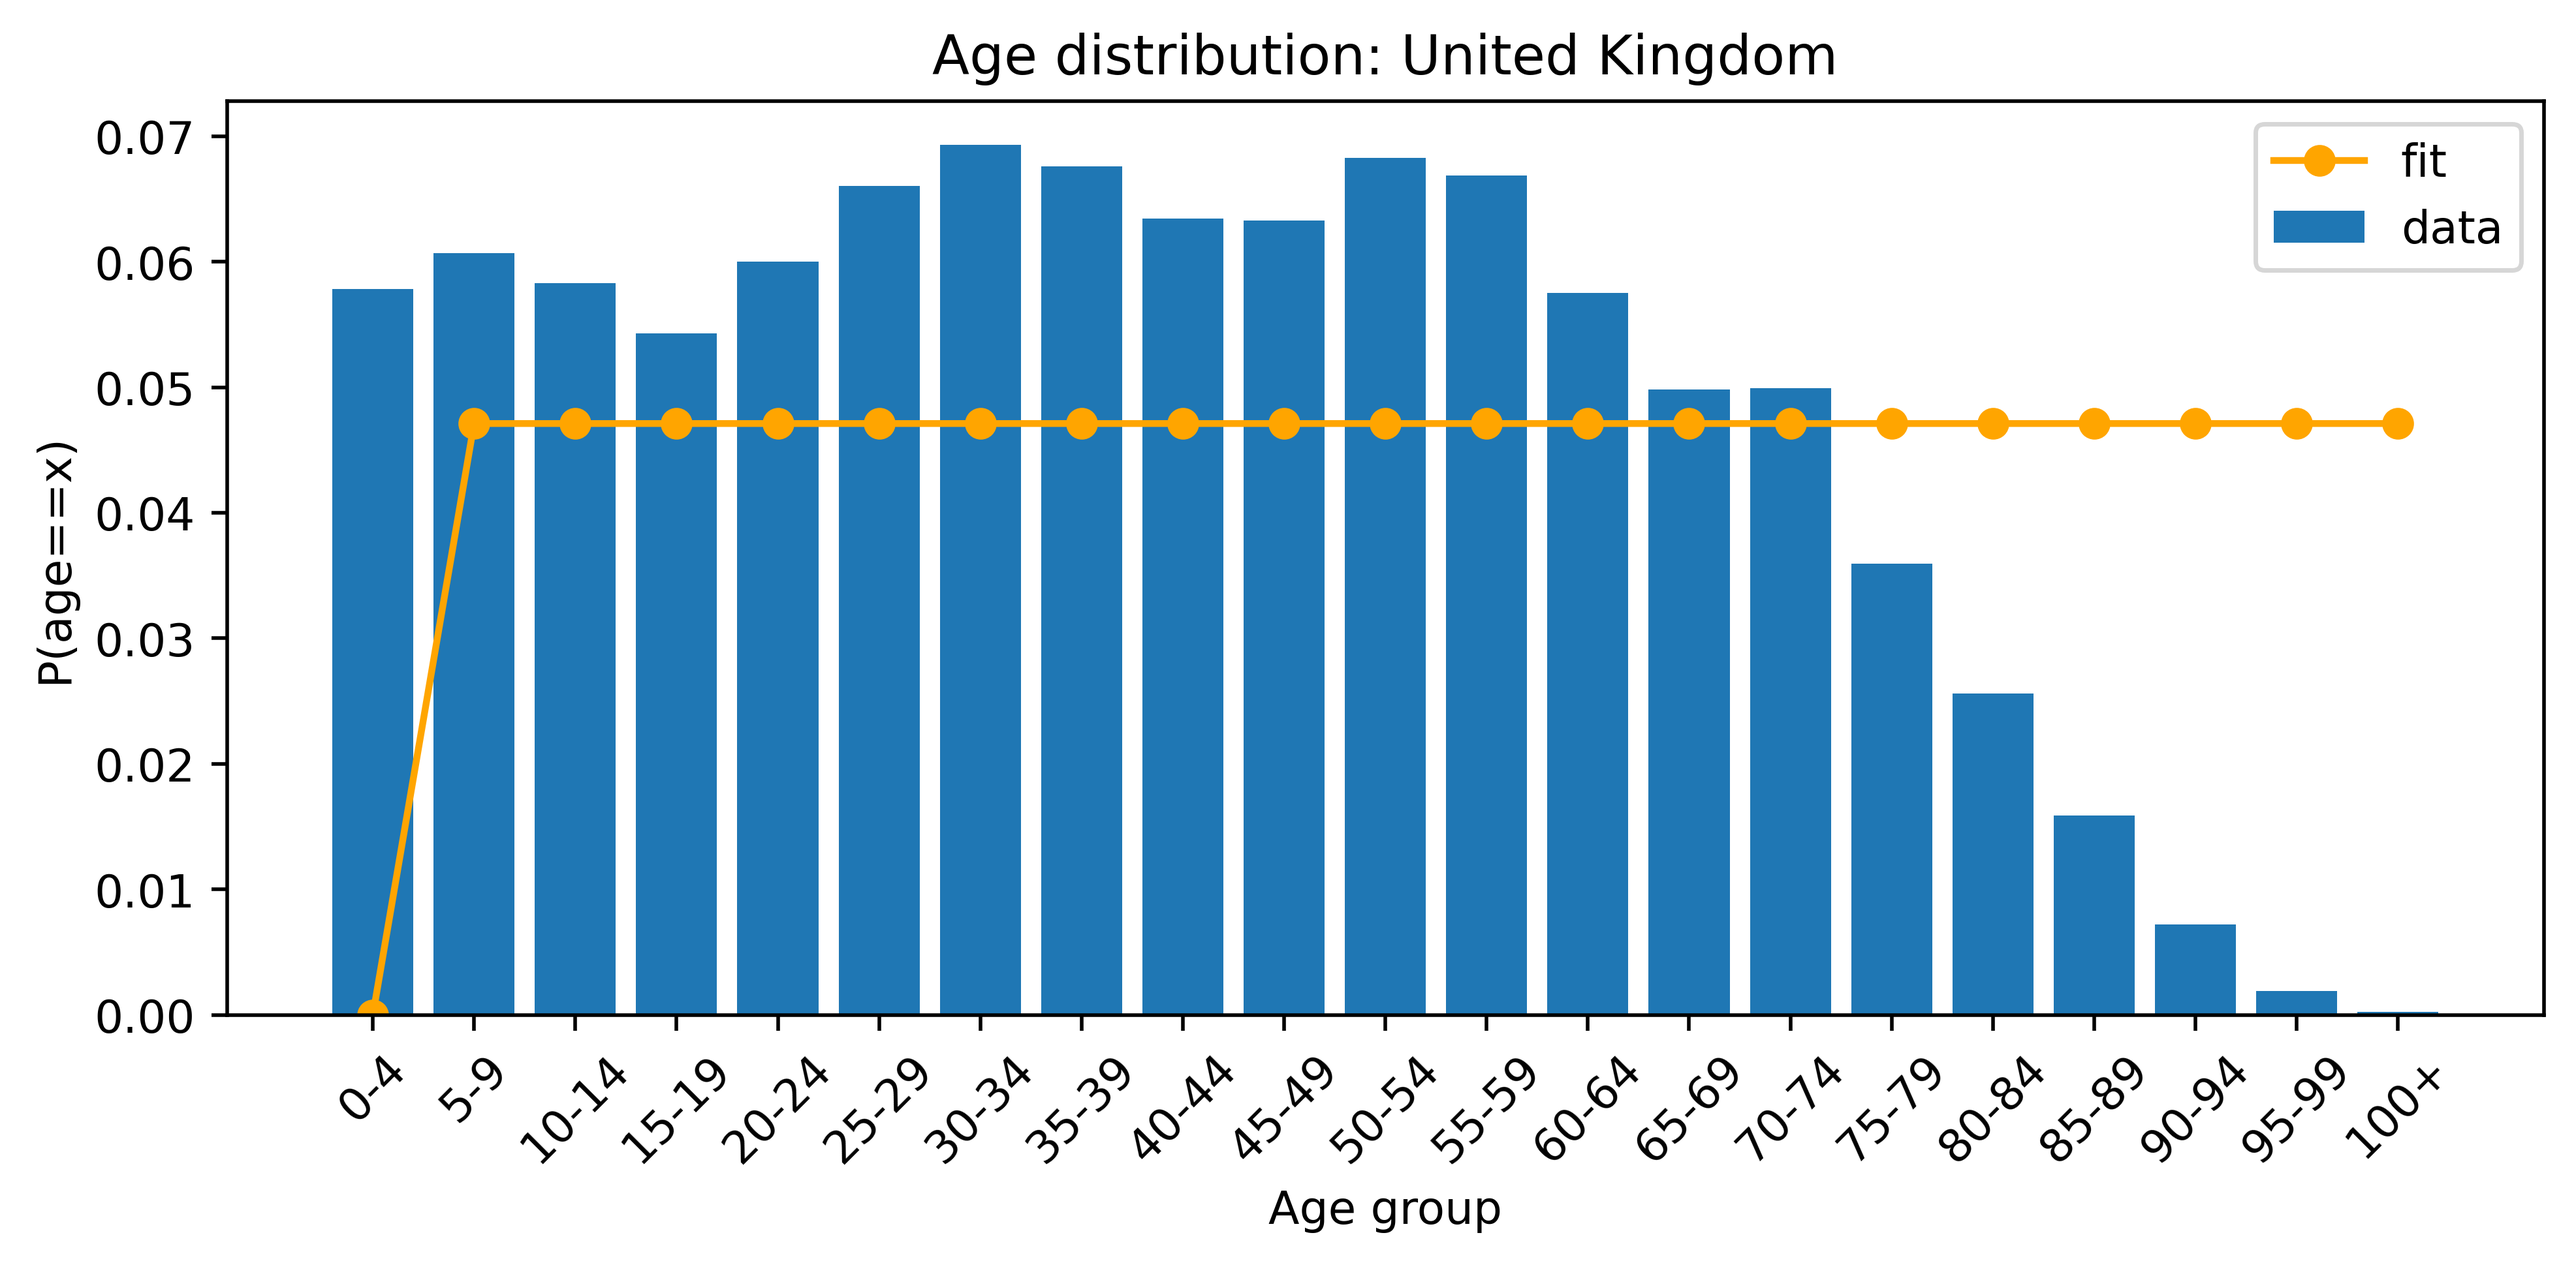
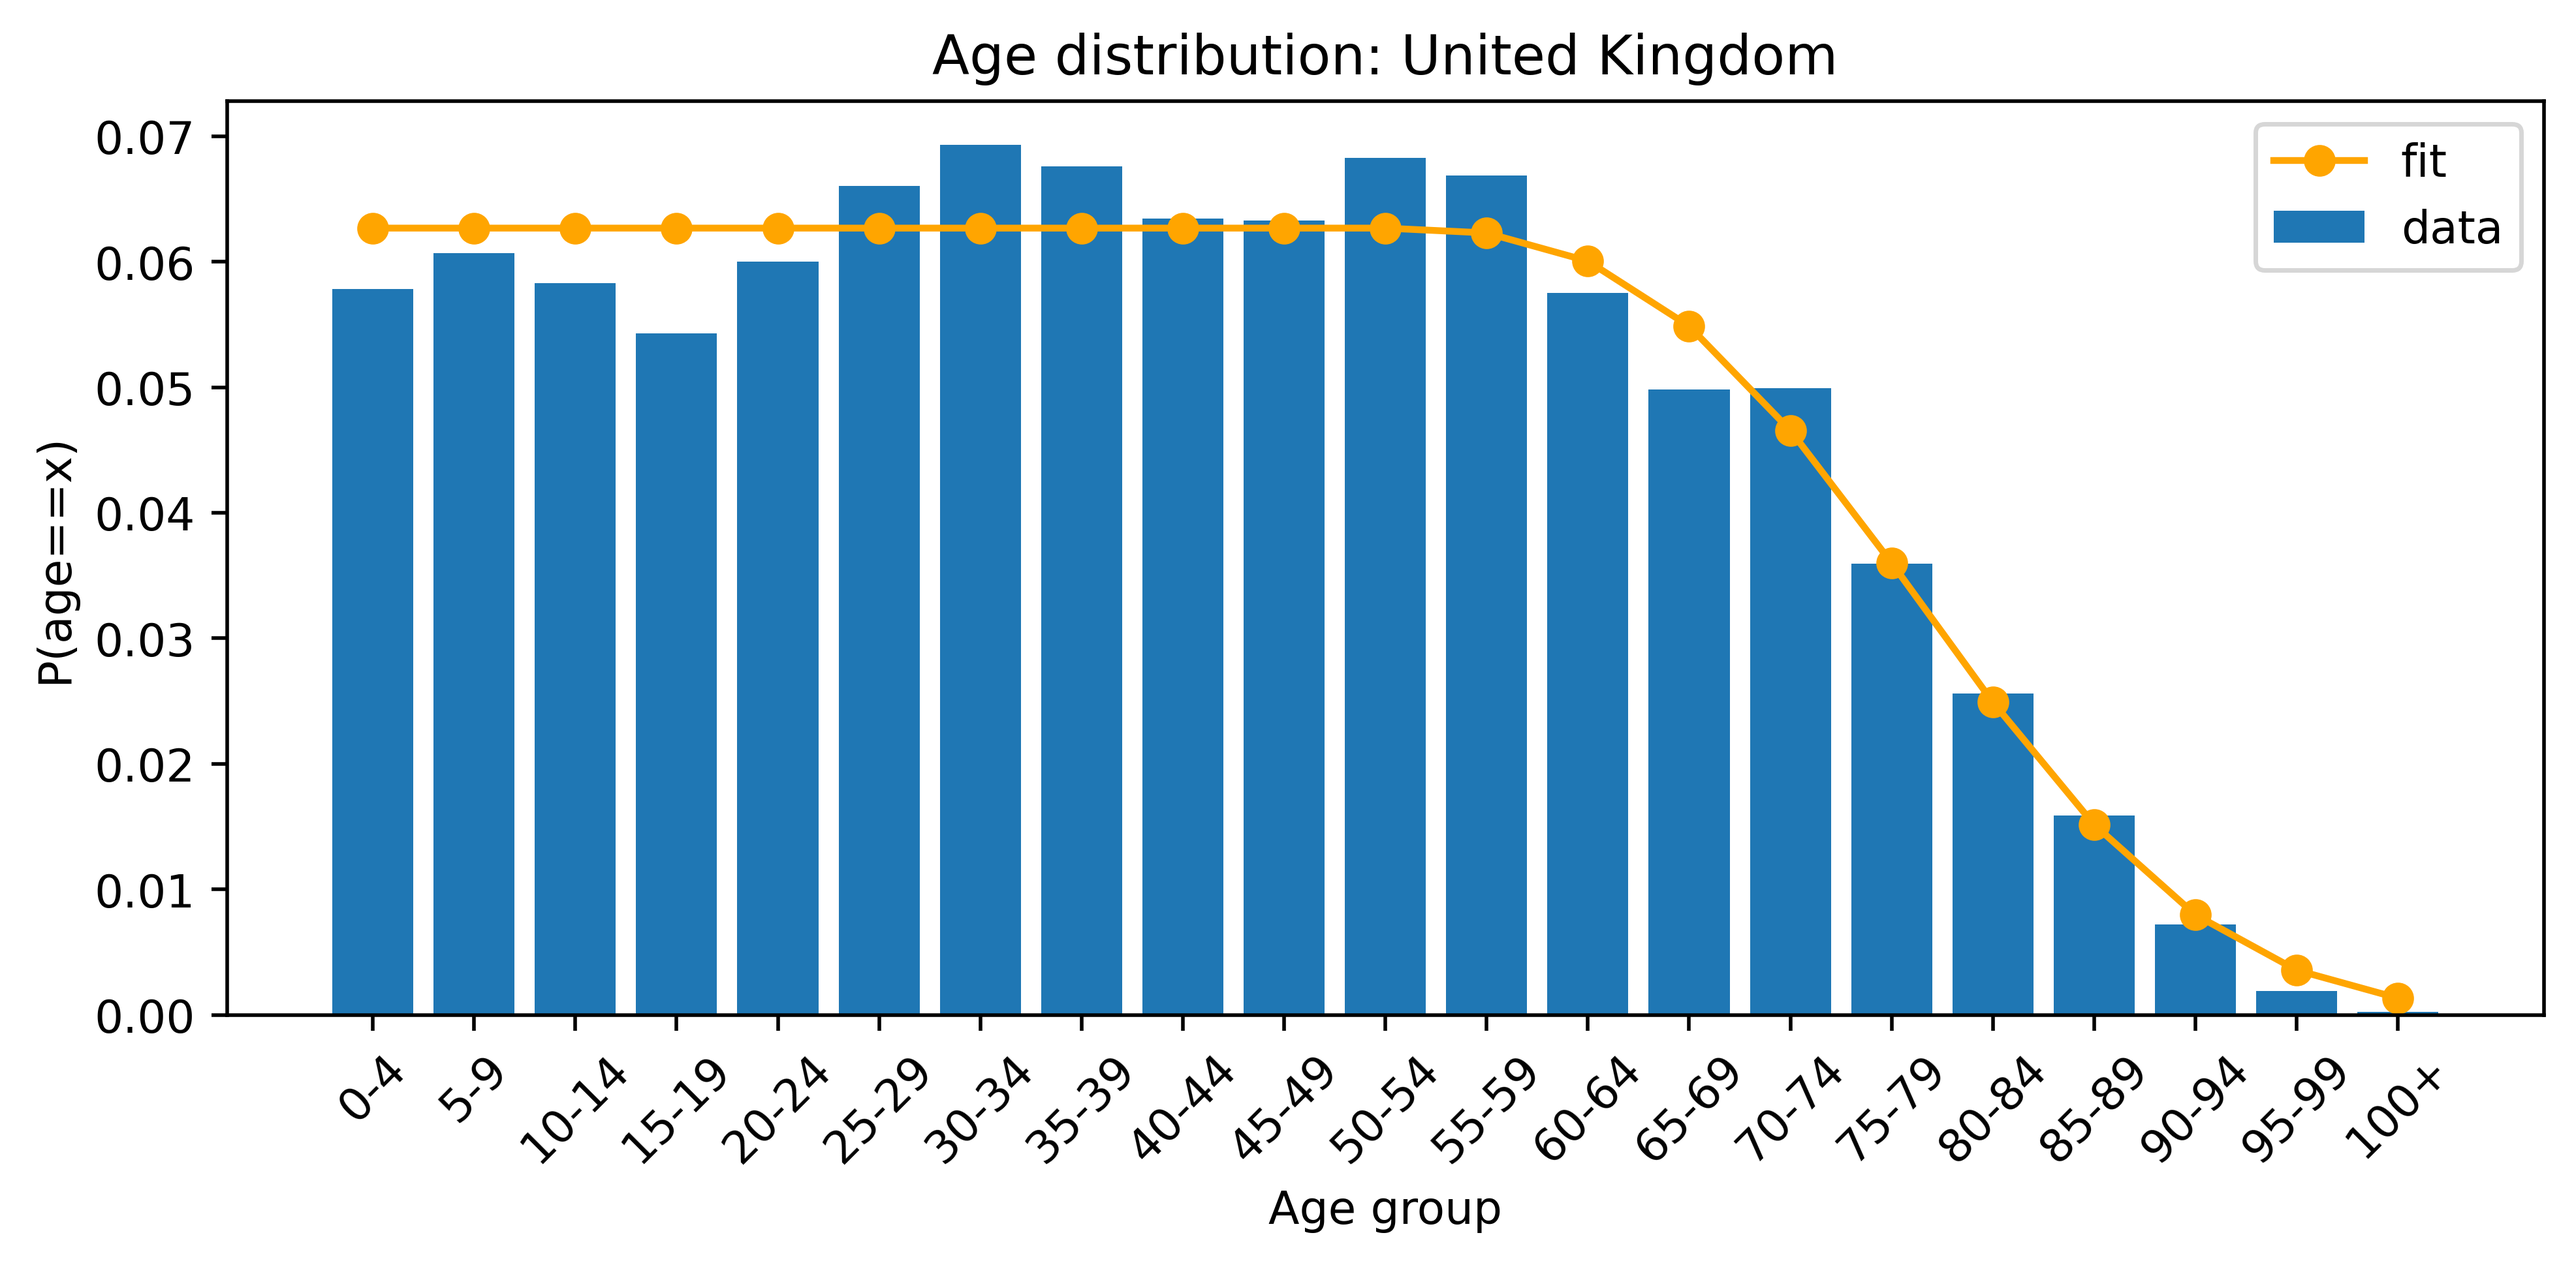
Updates to genetic algorithm and plotting

diff --git a/code/Fcnform_Plotter.py b/code/Fcnform_Plotter.py
@@ -1,0 +1,88 @@
+#!/usr/bin/env python3
+# -*- coding: utf-8 -*-
+"""
+Created on Tue May 10 10:48:54 2022
+
+@author: kfair
+"""
+
+#Load in required libraries
+import numpy as np
+import os
+import matplotlib.pyplot as plt
+import seaborn as sns
+
+
+# Set working directory
+home =  os.getcwd()[:-4]
+
+
+# Define the expoential decay equation we're using for fitting
+def decayfcn(x, A, b, k):
+    y = A*np.exp(-b*(x**k))
+    return y
+
+# Define the data we want to plot
+xdat = np.arange(0, 5, 0.1)
+
+plt.figure(1, figsize=(10,5))
+
+plt.subplot(121)
+plt.plot(xdat, decayfcn(xdat,1,1,1), '-', label='A=1,    B=1,    C=1')
+# plt.plot(xdat, decayfcn(xdat,0.5,0.5,1), '-', label='A=0.5, B=1,    C=1')
+# plt.plot(xdat, decayfcn(xdat,1,0.5,1), '-', label='A=1,    B=0.5, C=1')
+# plt.plot(xdat, decayfcn(xdat,1,0.5,2), '-', label='A=1,    B=0.5, C=2')
+plt.xlabel("x")
+plt.ylabel("y")
+plt.legend(title="Parameters")
+
+plt.tight_layout()
+plt.savefig('agedistfitter_demo1.png', bbox_inches="tight", dpi=500)
+plt.show()
+
+plt.figure(1, figsize=(10,5))
+
+plt.subplot(121)
+plt.plot(xdat, decayfcn(xdat,1,1,1), '-', label='A=1,    B=1,    C=1')
+plt.plot(xdat, decayfcn(xdat,0.5,0.5,1), '-', label='A=0.5, B=1,    C=1')
+# plt.plot(xdat, decayfcn(xdat,1,0.5,1), '-', label='A=1,    B=0.5, C=1')
+# plt.plot(xdat, decayfcn(xdat,1,0.5,2), '-', label='A=1,    B=0.5, C=2')
+plt.xlabel("x")
+plt.ylabel("y")
+plt.legend(title="Parameters")
+
+plt.tight_layout()
+plt.savefig('agedistfitter_demo2.png', bbox_inches="tight", dpi=500)
+plt.show()
+
+
+plt.figure(1, figsize=(10,5))
+
+plt.subplot(121)
+plt.plot(xdat, decayfcn(xdat,1,1,1), '-', label='A=1,    B=1,    C=1')
+plt.plot(xdat, decayfcn(xdat,0.5,0.5,1), '-', label='A=0.5, B=1,    C=1')
+plt.plot(xdat, decayfcn(xdat,1,0.5,1), '-', label='A=1,    B=0.5, C=1')
+# plt.plot(xdat, decayfcn(xdat,1,0.5,2), '-', label='A=1,    B=0.5, C=2')
+plt.xlabel("x")
+plt.ylabel("y")
+plt.legend(title="Parameters")
+
+plt.tight_layout()
+plt.savefig('agedistfitter_demo3.png', bbox_inches="tight", dpi=500)
+plt.show()
+
+
+plt.figure(1, figsize=(10,5))
+
+plt.subplot(121)
+plt.plot(xdat, decayfcn(xdat,1,1,1), '-', label='A=1,    B=1,    C=1')
+plt.plot(xdat, decayfcn(xdat,0.5,0.5,1), '-', label='A=0.5, B=1,    C=1')
+plt.plot(xdat, decayfcn(xdat,1,0.5,1), '-', label='A=1,    B=0.5, C=1')
+plt.plot(xdat, decayfcn(xdat,1,0.5,2), '-', label='A=1,    B=0.5, C=2')
+plt.xlabel("x")
+plt.ylabel("y")
+plt.legend(title="Parameters")
+
+plt.tight_layout()
+plt.savefig('agedistfitter_demo4.png', bbox_inches="tight", dpi=500)
+plt.show()

diff --git a/code/test_KRF_noncum_mean_mod.py b/code/test_KRF_noncum_mean_mod.py
@@ -52,8 +52,9 @@ def obj_func(survive_probas):
     # ages_final[uages] = freqs
     ages_final = ages_history[:,-100::].mean(axis=1)
     ages_dist = np.cumsum(ages_final/ages_final.sum())
+    ages_dist_noncum = ages_final/ages_final.sum()
     
-    return (np.max(np.abs(ages_dist - target_dist_cum)), ages_dist)
+    return (np.mean(np.abs(ages_dist_noncum - target_dist_noncum)), ages_dist)
 
 # def obj_func(survive_probas):
     
@@ -129,9 +130,10 @@ max_itera = 1000
 # stepsize=5
 # target_dist = np.arange(1,stepsize*(n_groups),stepsize)[::-1]
 
-numselect=1
+numselect=37
 target_dist = df.iloc[numselect, -22:-1] #For now just do the check on the very first entry
 n_groups = len(target_dist) # Set number of groups to match age classes in data
+target_dist_noncum = target_dist/target_dist.sum()
 target_dist_cum = np.cumsum(target_dist/target_dist.sum())
 
 
@@ -154,7 +156,7 @@ print(f"Minimum possible p_n value: {p_n_min_getter(target_dist)}")
 ## TEST OPTIMIZATION
 
 best_fitness = 1000
-popsize = 64
+popsize = 128
 mut=0.8
 crossp=0.7
 parallel_processes = 64
@@ -197,7 +199,7 @@ while True:
         
         plt.subplot(132)
         plt.plot(numerical_dist_noncum, label = "simulated")
-        plt.plot(target_dist/target_dist.sum(), label = "observed")
+        plt.plot(target_dist_noncum, label = "observed")
         plt.plot()
         plt.legend(title="Age distribution")
         plt.xticks(rotation=45)

diff --git a/code/test2_KRF_noncum_mean_mod.py b/code/test2_KRF_noncum_mean_mod.py
@@ -43,9 +43,10 @@ def obj_func(solution):
 
     ages_final = ages_history[:,-100::].mean(axis=1)
     ages_dist = np.cumsum(ages_final/ages_final.sum())
+    ages_dist_noncum = ages_final/ages_final.sum()
     
     # return np.max(np.abs(ages_dist - target_dist))
-    return (np.max(np.abs(ages_dist - target_dist_cum)), ages_dist)
+    return (np.mean(np.abs(ages_dist_noncum - target_dist_noncum)), ages_dist)
 
 ## GET DATA
 
@@ -88,6 +89,7 @@ max_itera = 1000
 numselect=1
 target_dist = df.iloc[numselect, -22:-1] #For now just do the check on the very first entry
 n_groups = len(target_dist) # Set number of groups to match age classes in data
+target_dist_noncum = target_dist/target_dist.sum()
 target_dist_cum = np.cumsum(target_dist/target_dist.sum())
 
 
@@ -151,7 +153,7 @@ while True:
         plt.title(f"Parameter values: {df.iloc[numselect,3]}")
         
         plt.subplot(122)
-        plt.bar(x=target_dist.index, height=target_dist/target_dist.sum(), label = "observed")
+        plt.bar(x=target_dist.index, height=target_dist_noncum, label = "observed")
         plt.plot(numerical_dist_noncum,  'o-', color="orange", label = "simulated")
         plt.legend(title="Age distribution", loc = "upper right")
         plt.xticks(rotation=45)

diff --git a/code/AgeDist_fitter.py b/code/AgeDist_fitter.py
@@ -100,9 +100,13 @@ fit_y_noncum[1:] -= fit_y_noncum[:-1].copy()
 
 # print(wasserstein_distance(target_dist_cum, fit_y_old))
 
-# Define the expoential decay equation we're using for fitting
-def decayfcn(x, A, b, k):
-    y = A*np.exp(-b*(x**k))
+startbin=10
+
+# Define the decay equation we're using for fitting
+def decayfcn(x, A, B, k):
+    
+    y = A*np.ones(len(x))
+    y[startbin:] = A*np.exp(-B*((x[startbin:] - x[startbin])**k))
     return y
 
 # Fit curve
@@ -110,11 +114,11 @@ ydat = np.asarray(target_dist/target_dist.sum())
 parameters, covariance = curve_fit(decayfcn, xdat, ydat)
 
 fit_A = parameters[0]
-fit_b = parameters[1]
+fit_B = parameters[1]
 fit_k = parameters[2]
 
-fit_y = decayfcn(xdat, fit_A, fit_b, fit_k)
-fit_y[fit_y>1] = 1 
+fit_y = decayfcn(xdat, fit_A, fit_B, fit_k)
+# fit_y[fit_y>1] = 1 
 
 wass_dist = wasserstein_distance(target_dist/target_dist.sum(), fit_y)
 
@@ -150,10 +154,12 @@ plt.tight_layout()
 plt.savefig(f'agedist_fitted_empirical_{df.iloc[numselect,3]}.png', bbox_inches="tight", dpi=500)
 plt.show()
 
-
+if abs(fit_y.sum()-1) > 0.01:
+    print("Fitted probabilties aren't summing nicely")
 
 # df_wassdist[i] = wass_dist
     
 # plt.figure(2, figsize=(10,5))    
 # plt.hist(df_wassdist)
 # plt.show()
+

diff --git a/code/test_KRF_noncummod.py b/code/test_KRF_noncummod.py
@@ -52,8 +52,9 @@ def obj_func(survive_probas):
     # ages_final[uages] = freqs
     ages_final = ages_history[:,-100::].mean(axis=1)
     ages_dist = np.cumsum(ages_final/ages_final.sum())
+    ages_dist_noncum = ages_final/ages_final.sum()
     
-    return (np.max(np.abs(ages_dist - target_dist_cum)), ages_dist)
+    return (np.max(np.abs(ages_dist_noncum - target_dist_noncum)), ages_dist)
 
 # def obj_func(survive_probas):
     
@@ -129,9 +130,10 @@ max_itera = 1000
 # stepsize=5
 # target_dist = np.arange(1,stepsize*(n_groups),stepsize)[::-1]
 
-numselect=1
+numselect=37
 target_dist = df.iloc[numselect, -22:-1] #For now just do the check on the very first entry
 n_groups = len(target_dist) # Set number of groups to match age classes in data
+target_dist_noncum = target_dist/target_dist.sum()
 target_dist_cum = np.cumsum(target_dist/target_dist.sum())
 
 
@@ -197,7 +199,7 @@ while True:
         
         plt.subplot(132)
         plt.plot(numerical_dist_noncum, label = "simulated")
-        plt.plot(target_dist/target_dist.sum(), label = "observed")
+        plt.plot(target_dist_noncum, label = "observed")
         plt.plot()
         plt.legend(title="Age distribution")
         plt.xticks(rotation=45)

diff --git a/code/test_KRF_meanmod.py b/code/test_KRF_meanmod.py
@@ -53,7 +53,7 @@ def obj_func(survive_probas):
     ages_final = ages_history[:,-100::].mean(axis=1)
     ages_dist = np.cumsum(ages_final/ages_final.sum())
     
-    return (np.max(np.abs(ages_dist - target_dist_cum)), ages_dist)
+    return (np.mean(np.abs(ages_dist - target_dist_cum)), ages_dist)
 
 # def obj_func(survive_probas):
     
@@ -129,7 +129,7 @@ max_itera = 1000
 # stepsize=5
 # target_dist = np.arange(1,stepsize*(n_groups),stepsize)[::-1]
 
-numselect=1
+numselect=37
 target_dist = df.iloc[numselect, -22:-1] #For now just do the check on the very first entry
 n_groups = len(target_dist) # Set number of groups to match age classes in data
 target_dist_cum = np.cumsum(target_dist/target_dist.sum())
